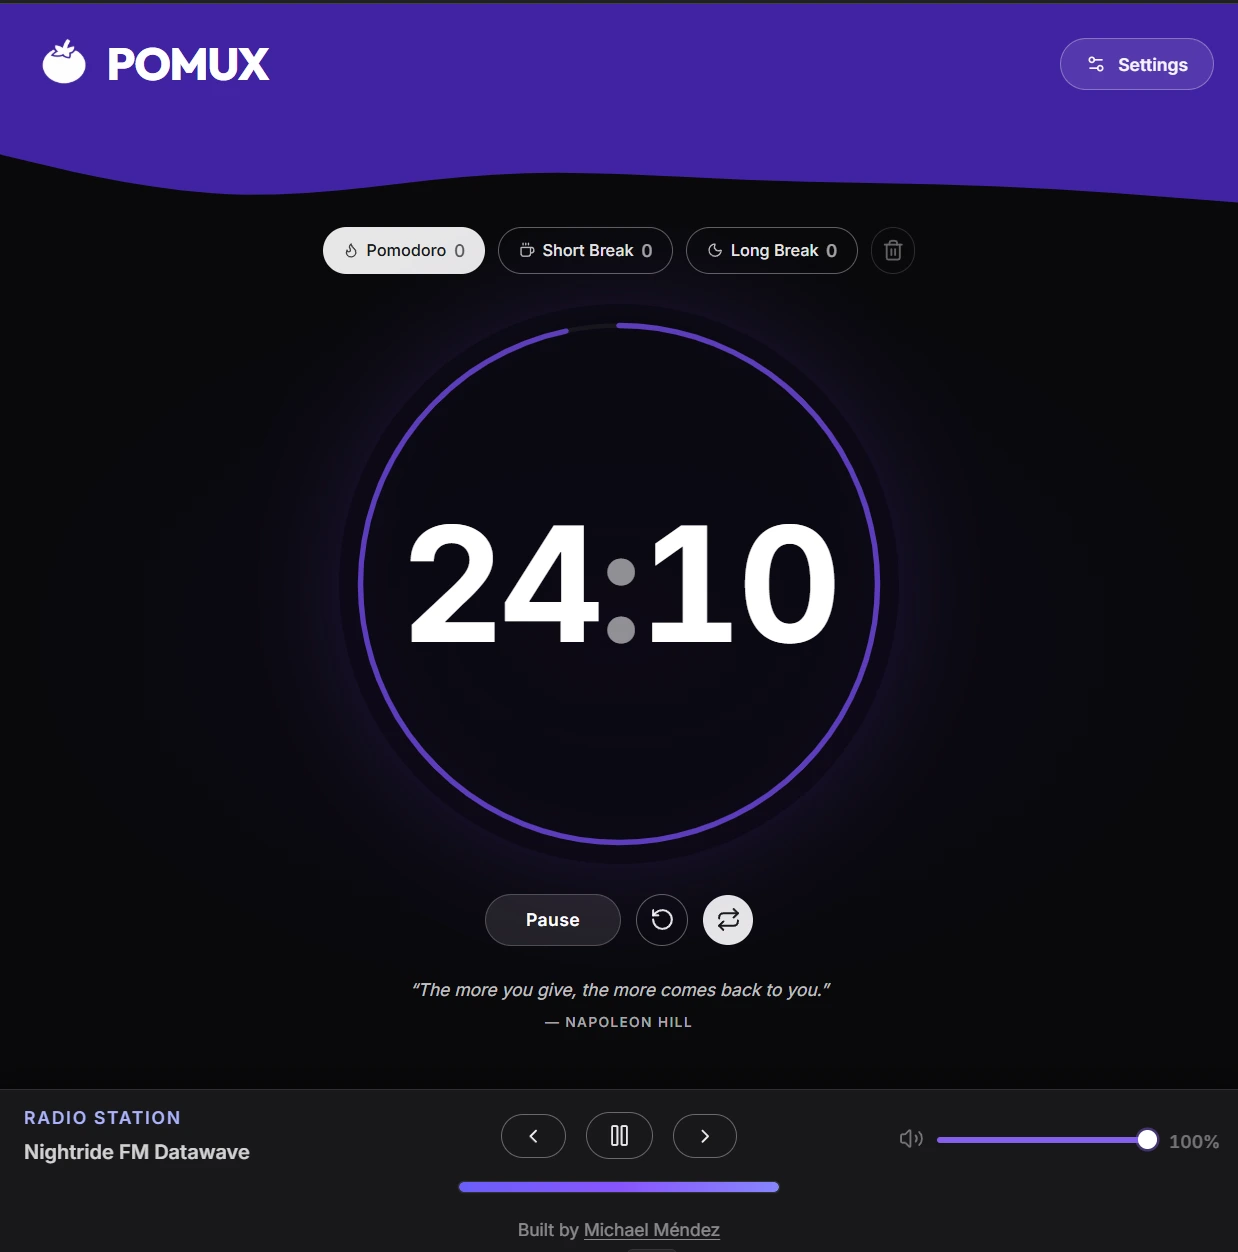
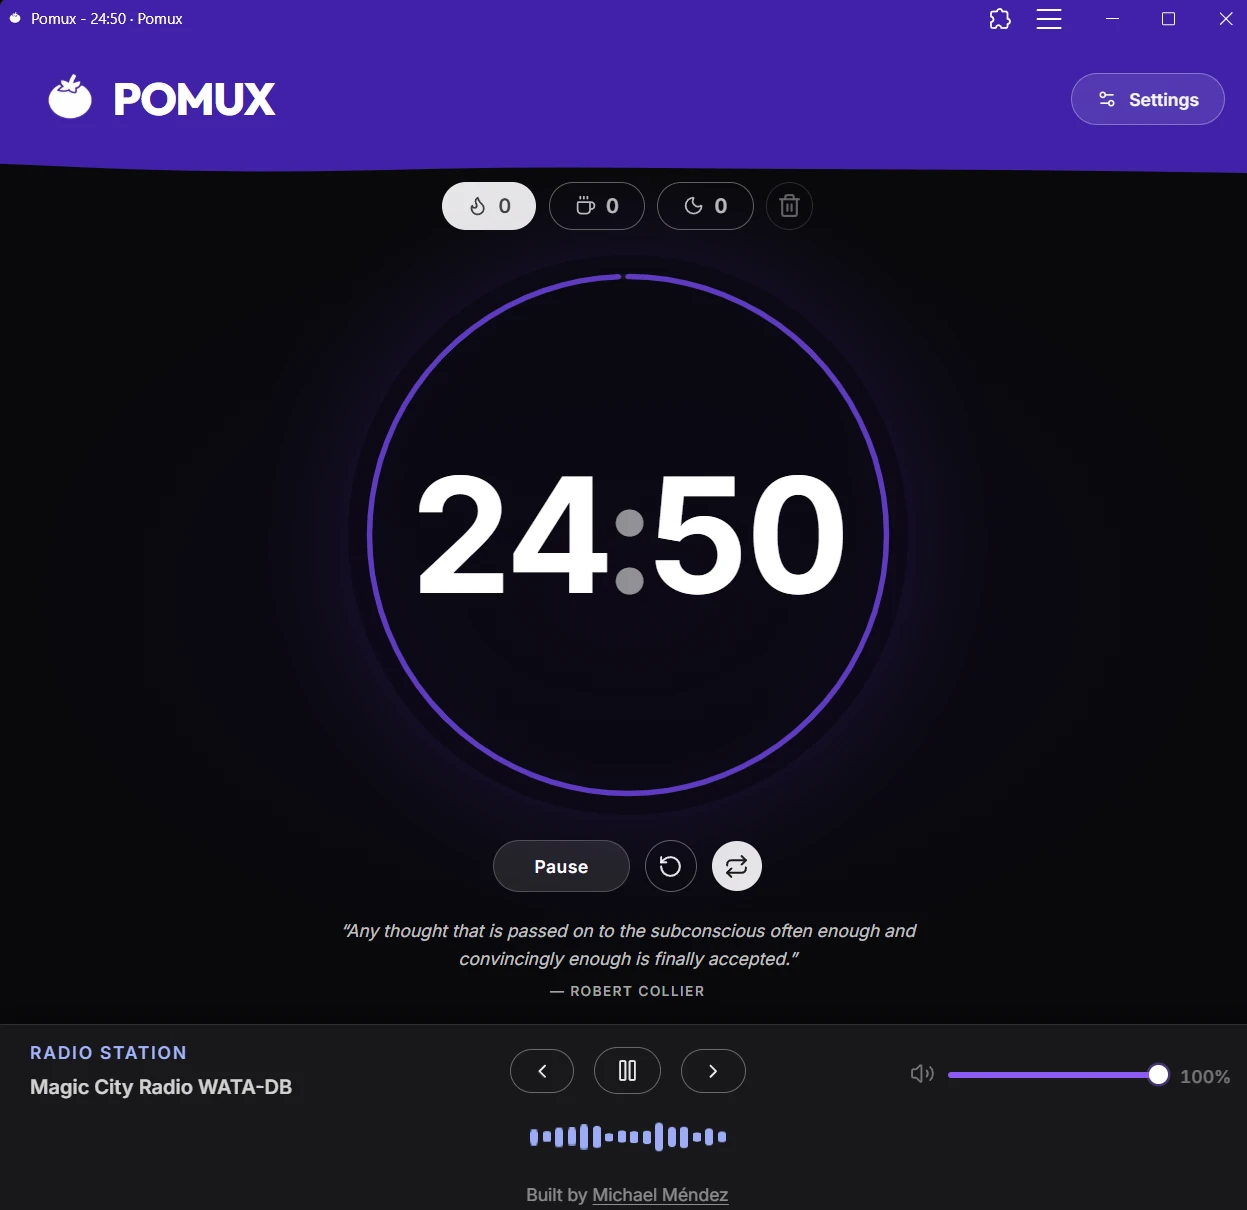
feat: enhance Station component with loading skeleton and improve station name display

diff --git a/src/features/radio/components/Station.tsx b/src/features/radio/components/Station.tsx
@@ -83,9 +83,13 @@ export default function Station() {
             <span className="block text-[11px] uppercase tracking-widest text-indigo-300/90 font-semibold">
               Radio
             </span>
-            <span className="mt-0.5 block truncate text-sm font-semibold text-white/82">
-              {isLoading ? "Loading..." : (stationName ?? "No Station")}
-            </span>
+            {isLoading ? (
+              <Skeleton className="mt-1 h-4 w-28 rounded-md" />
+            ) : (
+              <span className="mt-0.5 block truncate text-sm font-semibold text-white/82">
+                {stationName ?? "No Station"}
+              </span>
+            )}
           </span>
           <span className="inline-flex items-center gap-2 text-white/75">
             <span className="text-xs">{isMobileExpanded ? "Hide" : "Show"}</span>

diff --git a/README.md b/README.md
@@ -18,10 +18,13 @@ Built with React 19, TypeScript, Tailwind CSS v4, and Vite.
 - Automatic Pomodoro cycle — every 4th Pomodoro triggers a long break, otherwise a short break; breaks return to Pomodoro automatically
 - Auto-start toggle — chains sessions without manual input, persisted in localStorage
 - Session counter per timer type, persisted in localStorage
-- Sound notification when a session ends
+- End-of-session alerts with independent toggles for desktop notifications and sound
+- Notification permission flow handled from Settings (user-triggered, no intrusive auto-prompt)
 - Motivational quotes from [ZenQuotes](https://zenquotes.io/) through a same-origin `/api/quote` proxy, rotating every 30 seconds with smooth transitions and offline fallbacks
 - Dynamic browser tab title showing the remaining time
 - Lofi/synthwave radio player powered by the [RadioBrowser API](https://www.radio-browser.info/) — no account required
+- Optional radio wave animation toggle (desktop)
+- Mobile-optimized radio section with a collapsible control panel to save vertical space
 - Installable as a Progressive Web App (PWA)
 - Fully responsive
 
